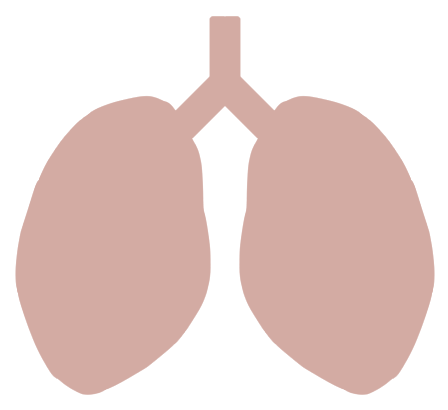
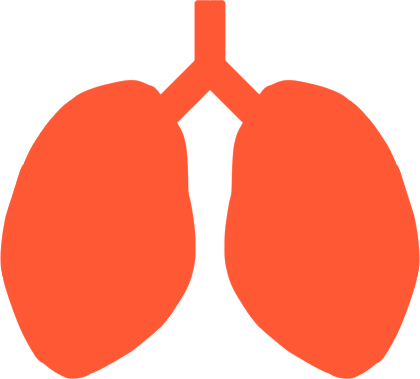
UpdatelungUI & UpdateCigarUI (#5)
* Added: 폐 이미지 추가 및 변경
Updated: 폐 위치 우측상단으로 변경

* Updated: 담배 크기 변경

diff --git a/index.html b/index.html
@@ -63,13 +63,15 @@
             <div id="scene-play" class="scene">
                 <!-- HUD: 폐 게이지 -->
                 <div id="hud">
-                    <div id="lung-gauge">
-                        <!-- 레이어1: 폐 외곽선 (항상 보임) -->
-                        <div id="lung-outline"></div>
-                        <!-- 레이어2: 채움 색, mask로 폐 모양만 남기고 clip-path로 아래서 위로 채움 -->
-                        <div id="lung-fill"></div>
+                    <div class="hud-lung-box">
+                        <div id="lung-gauge">
+                            <!-- 레이어1: 폐 외곽선 (항상 보임) -->
+                            <div id="lung-outline"></div>
+                            <!-- 레이어2: 채움 색, mask로 폐 모양만 남기고 clip-path로 아래서 위로 채움 -->
+                            <div id="lung-fill"></div>
+                        </div>
+                        <span id="gauge-value">0 / 100</span>
                     </div>
-                    <span id="gauge-value">0 / 100</span>
                 </div>
 
                 <!-- 플레이 무대(뷰포트): 고정 크기 창. 이 안에서 #world 가 스크롤된다. -->

diff --git a/js/data.js b/js/data.js
@@ -86,9 +86,9 @@ const DATA = {
 
         // ── 폐 게이지 ──
         LUNG: {
-            SPRITE: "/ui/lung.png",
-            WIDTH: 80, // #lung-gauge 크기 (폐 이미지 비율에 맞게) 420 x 379
-            HEIGHT: (379 * 80) / 420,
+            SPRITE: "/img_assets/ui/lung.png",
+            WIDTH: 120, // #lung-gauge 크기 (폐 이미지 비율에 맞게) 420 x 379
+            HEIGHT: (379 * 120) / 420,
 
             // 채움이 멈추는 위쪽 천장 (이미지 높이의 %). 기관지(위 줄기)는 안 채워지고,
             // 폐가 시작되는 "핑크 지점"까지만 채운다.
@@ -116,21 +116,21 @@ const DATA = {
         cigar_s: {
             points: 5,
             percentage: 45,
-            boxW: 20,
+            boxW: 50,
             boxH: 30,
             sprite: "img_assets/items/cigar_s.png",
         }, // 단초
         cigar_m: {
             points: 10,
             percentage: 45,
-            boxW: 28,
+            boxW: 70,
             boxH: 30,
             sprite: "img_assets/items/cigar_m.png",
         }, // 중초
         cigar_l: {
             points: 20,
             percentage: 10,
-            boxW: 36,
+            boxW: 90,
             boxH: 30,
             sprite: "img_assets/items/cigar_l.png",
         }, // 장초

diff --git a/css/layout.css b/css/layout.css
@@ -175,3 +175,10 @@
     background-size: 100% 100%; /* 4400x440 칸에 꽉 채움. 원본과 같은 10:1 비율이라 왜곡 없음 */
     background-repeat: no-repeat;
 }
+
+.hud-lung-box {
+    position: absolute;
+    top: 24px;      /* 상단 테두리로부터 내려올 거리 */
+    right: 32px;    /* 오른쪽 테두리로부터 떨어질 거리 */
+    z-index: 100;   /* 게임 속 다른 요소들보다 항상 위에 보이도록 설정 */
+}